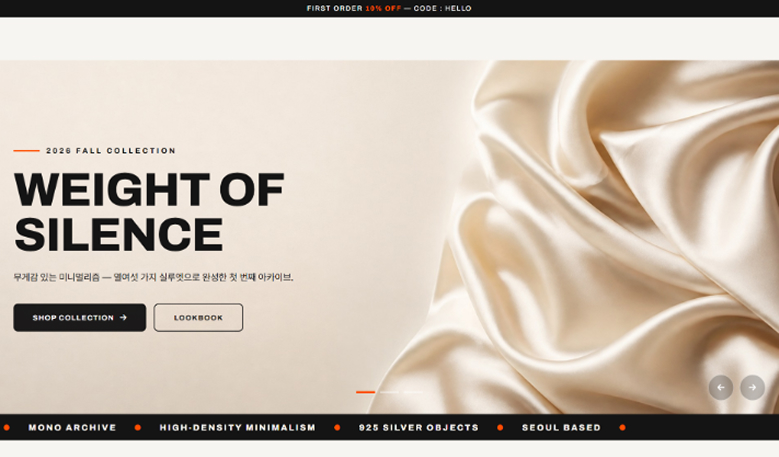
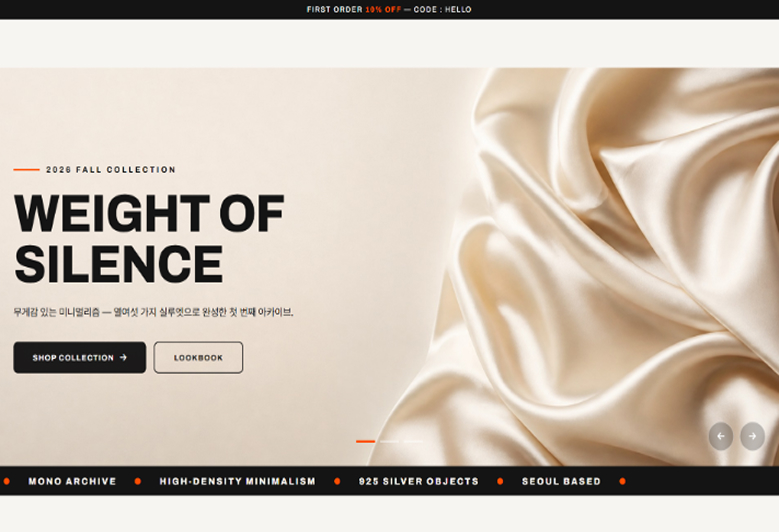
1110 ALL 정리

diff --git a/index.html b/index.html
@@ -216,25 +216,6 @@
         <!-- ===== ALL PROJECT / UIUX ===== -->
         <div class="ap-panel is-active" data-panel="uiux" data-category="uiux" role="tabpanel">
           <div class="ap-grid">
-            <a class="ap-card ap-card--browser" href="https://ujin2019-oss.github.io/cafe1/01_mono-archive/index.html" target="_blank" rel="noopener"><!-- 1 -->
-              <span class="ap-card__media">
-                <span class="ap-browser">
-                  <span class="ap-browser__bar">
-                    <span class="ap-browser__dots" aria-hidden="true"><i></i><i></i><i></i></span>
-                    <span class="ap-browser__url" aria-hidden="true"></span>
-                  </span>
-                  <span class="ap-browser__screen"><img src="./images/all_pc01.jpg" alt="모노 아카이브 카페 데스크톱 화면" /></span>
-                </span>
-                <span class="ap-mobile">
-                  <span class="ap-mobile__bar" aria-hidden="true"><span class="ap-mobile__url"></span></span>
-                  <span class="ap-mobile__screen"><img src="./images/all_mo01.jpg" alt="모노 아카이브 카페 모바일 화면" /></span>
-                </span>
-              </span>
-              <span class="ap-card__info">
-                <span class="ap-card__title">모노 아카이브 의류 쇼핑몰</span>
-                <span class="ap-card__cat">반응형 웹사이트</span>
-              </span>
-            </a>
             <a class="ap-card ap-card--browser" href="https://ujin2019-oss.github.io/everstay/" target="_blank" rel="noopener"><!-- 2 -->
               <span class="ap-card__media">
                 <span class="ap-browser">
@@ -271,6 +252,63 @@
               <span class="ap-card__info">
                 <span class="ap-card__title">아쿠리아움</span>
                 <span class="ap-card__cat">웹사이트</span>
+              </span>
+            </a>
+            <a class="ap-card ap-card--browser" href="https://ujin2019-oss.github.io/cafe1/01_mono-archive/index.html" target="_blank" rel="noopener"><!-- 1 -->
+              <span class="ap-card__media">
+                <span class="ap-browser">
+                  <span class="ap-browser__bar">
+                    <span class="ap-browser__dots" aria-hidden="true"><i></i><i></i><i></i></span>
+                    <span class="ap-browser__url" aria-hidden="true"></span>
+                  </span>
+                  <span class="ap-browser__screen"><img src="./images/all_pc01.jpg" alt="모노 아카이브 카페 데스크톱 화면" /></span>
+                </span>
+                <span class="ap-mobile">
+                  <span class="ap-mobile__bar" aria-hidden="true"><span class="ap-mobile__url"></span></span>
+                  <span class="ap-mobile__screen"><img src="./images/all_mo01.jpg" alt="모노 아카이브 카페 모바일 화면" /></span>
+                </span>
+              </span>
+              <span class="ap-card__info">
+                <span class="ap-card__title">모노 아카이브 의류 쇼핑몰</span>
+                <span class="ap-card__cat">반응형 웹사이트</span>
+              </span>
+            </a>
+            <a class="ap-card ap-card--browser" href="https://ujin2019-oss.github.io/serin/" target="_blank" rel="noopener"><!-- 12 -->
+              <span class="ap-card__media">
+                <span class="ap-browser">
+                  <span class="ap-browser__bar">
+                    <span class="ap-browser__dots" aria-hidden="true"><i></i><i></i><i></i></span>
+                    <span class="ap-browser__url" aria-hidden="true"></span>
+                  </span>
+                  <span class="ap-browser__screen"><img src="./images/all_pc12.jpg" alt="SÉRIN 이너뷰티 브랜드 데스크톱 화면" /></span>
+                </span>
+                <span class="ap-mobile">
+                  <span class="ap-mobile__bar" aria-hidden="true"><span class="ap-mobile__url"></span></span>
+                  <span class="ap-mobile__screen"><img src="./images/all_mo12.jpg" alt="SÉRIN 이너뷰티 브랜드 모바일 화면" /></span>
+                </span>
+              </span>
+              <span class="ap-card__info">
+                <span class="ap-card__title">세린 이너뷰티 브랜드</span>
+                <span class="ap-card__cat">반응형 웹사이트</span>
+              </span>
+            </a>
+            <a class="ap-card ap-card--browser" href="https://ujin2019-oss.github.io/forme/" target="_blank" rel="noopener"><!-- 13 -->
+              <span class="ap-card__media">
+                <span class="ap-browser">
+                  <span class="ap-browser__bar">
+                    <span class="ap-browser__dots" aria-hidden="true"><i></i><i></i><i></i></span>
+                    <span class="ap-browser__url" aria-hidden="true"></span>
+                  </span>
+                  <span class="ap-browser__screen"><img src="./images/all_pc13.jpg" alt="FORME. 데스크톱 화면" /></span>
+                </span>
+                <span class="ap-mobile">
+                  <span class="ap-mobile__bar" aria-hidden="true"><span class="ap-mobile__url"></span></span>
+                  <span class="ap-mobile__screen"><img src="./images/all_mo13.jpg" alt="FORME. 모바일 화면" /></span>
+                </span>
+              </span>
+              <span class="ap-card__info">
+                <span class="ap-card__title">포르메 스킨케어 브랜드</span>
+                <span class="ap-card__cat">반응형 웹사이트</span>
               </span>
             </a>
             <a class="ap-card ap-card--browser" href="https://ujin2019-oss.github.io/blossomwide_lotte/" target="_blank" rel="noopener"><!-- 4 -->
@@ -364,23 +402,23 @@
                 <span class="ap-card__cat">웹·앱 개발</span>
               </span>
             </a>
-            <a class="ap-card ap-card--browser" href="https://ujin2019-oss.github.io/lizclinic/" target="_blank" rel="noopener"><!-- 9 -->
+            <a class="ap-card ap-card--browser" href="https://ujin2019-oss.github.io/tangtang/" target="_blank" rel="noopener"><!-- 11 -->
               <span class="ap-card__media">
                 <span class="ap-browser">
                   <span class="ap-browser__bar">
                     <span class="ap-browser__dots" aria-hidden="true"><i></i><i></i><i></i></span>
                     <span class="ap-browser__url" aria-hidden="true"></span>
                   </span>
-                  <span class="ap-browser__screen"><img src="./images/all_pc09.jpg" alt="리즈클리닉 데스크톱 화면" /></span>
+                  <span class="ap-browser__screen"><img src="./images/all_pc11.jpg" alt="프로젝트 08 데스크톱 화면" /></span>
                 </span>
                 <span class="ap-mobile">
                   <span class="ap-mobile__bar" aria-hidden="true"><span class="ap-mobile__url"></span></span>
-                  <span class="ap-mobile__screen"><img src="./images/all_mo09.jpg" alt="리즈클리닉 모바일 화면" /></span>
+                  <span class="ap-mobile__screen"><img src="./images/all_mo11.jpg" alt="탕탕특공대 게임소개 모바일 화면" /></span>
                 </span>
               </span>
               <span class="ap-card__info">
-                <span class="ap-card__title">리즈클리닉</span>
-                <span class="ap-card__cat">반응형 웹사이트</span>
+                <span class="ap-card__title">탕탕특공대</span>
+                <span class="ap-card__cat">반응형 웹사이트 리뉴얼</span>
               </span>
             </a>
             <a class="ap-card ap-card--browser" href="https://ujin2019-oss.github.io/lifedrop/" target="_blank" rel="noopener"><!-- 10 -->
@@ -402,23 +440,23 @@
                 <span class="ap-card__cat">반응형 웹사이트</span>
               </span>
             </a>
-            <a class="ap-card ap-card--browser" href="https://ujin2019-oss.github.io/tangtang/" target="_blank" rel="noopener"><!-- 11 -->
+            <a class="ap-card ap-card--browser" href="https://ujin2019-oss.github.io/lizclinic/" target="_blank" rel="noopener"><!-- 9 -->
               <span class="ap-card__media">
                 <span class="ap-browser">
                   <span class="ap-browser__bar">
                     <span class="ap-browser__dots" aria-hidden="true"><i></i><i></i><i></i></span>
                     <span class="ap-browser__url" aria-hidden="true"></span>
                   </span>
-                  <span class="ap-browser__screen"><img src="./images/all_pc11.jpg" alt="프로젝트 08 데스크톱 화면" /></span>
+                  <span class="ap-browser__screen"><img src="./images/all_pc09.jpg" alt="리즈클리닉 데스크톱 화면" /></span>
                 </span>
                 <span class="ap-mobile">
                   <span class="ap-mobile__bar" aria-hidden="true"><span class="ap-mobile__url"></span></span>
-                  <span class="ap-mobile__screen"><img src="./images/all_mo11.jpg" alt="탕탕특공대 게임소개 모바일 화면" /></span>
+                  <span class="ap-mobile__screen"><img src="./images/all_mo09.jpg" alt="리즈클리닉 모바일 화면" /></span>
                 </span>
               </span>
               <span class="ap-card__info">
-                <span class="ap-card__title">탕탕특공대</span>
-                <span class="ap-card__cat">반응형 웹사이트 리뉴얼</span>
+                <span class="ap-card__title">리즈클리닉</span>
+                <span class="ap-card__cat">반응형 웹사이트</span>
               </span>
             </a>
           </div>
@@ -987,73 +1025,6 @@
 
     </section>
   
-    <!-- DETAIL PROJECT / UIUX / MONO ARCHIVE -->
-    <section class="project project--detail project--category-uiux" id="monoarchive" data-category="uiux" data-project="monoarchive" aria-label="디자인 프로젝트 - MONO ARCHIVE">
-      <div class="project__inner">
-        <div
-          class="project__visual"
-          style="background-image: url('./images/monoarchive.png')"
-          role="img"
-          aria-label="모노 아카이브 의류 쇼핑몰의 데스크톱과 모바일 화면 목업"
-        ></div>
-
-        <div class="project__info" data-reveal>
-          <h2 class="project__title">MONO ARCHIVE</h2>
-
-          <dl class="project__list">
-            <div class="project__row">
-              <dt>Project Type</dt>
-              <dd>의류 쇼핑몰 반응형 웹사이트</dd>
-            </div>
-            <div class="project__row">
-              <dt>Project Purpose</dt>
-              <dd>미니멀한 브랜드 감성을 담아 시즌 컬렉션과 상품을 소개하고, 취향을 탐색할 수 있는 쇼핑몰 디자인</dd>
-            </div>
-            <div class="project__row">
-              <dt>Key Features</dt>
-              <dd>팝업 · 룩북 · 상품 카테고리</dd>
-            </div>
-            <div class="project__row">
-              <dt>Font Style</dt>
-              <dd>Pretendard Variable · Archivo</dd>
-            </div>
-            <div class="project__row">
-              <dt>Design Color</dt>
-              <dd>
-                <ul class="swatches" aria-label="디자인 색상">
-                  <li style="background:#111111" aria-label="블랙 #111111" title="#111111"></li>
-                  <li style="background:#F6F3EE" aria-label="아이보리 #F6F3EE" title="#F6F3EE"></li>
-                  <li style="background:#FF5A00" aria-label="오렌지 #FF5A00" title="#FF5A00"></li>
-                </ul>
-              </dd>
-            </div>
-            <div class="project__row">
-              <dt>Tools Used</dt>
-              <dd>
-                <ul class="tools tools--sm">
-                  <li class="tool"><img src="./images/ico_fig.png" alt="Figma" /></li>
-                  <li class="tool"><img src="./images/ico_vs.png" alt="VS Code" /></li>
-                  <li class="tool"><img src="./images/ico_clau.png" alt="Claude Code" /></li>
-                </ul>
-              </dd>
-            </div>
-            <div class="project__row">
-              <dt>Generative AI</dt>
-              <dd>Chat GPT 이미지 생성</dd>
-            </div>
-            <div class="project__row">
-              <dt>Duration</dt>
-              <dd>3일(집중작업)</dd>
-            </div>
-          </dl>
-
-          <div class="project__foot">
-            <a class="btn-outline" href="https://ujin2019-oss.github.io/cafe1/01_mono-archive/index.html" target="_blank" rel="noopener"><span class="btn-swap"><span class="btn-swap-en">Live Site</span><span class="btn-swap-ko">사이트 가기</span></span> <span aria-hidden="true">→</span></a>
-          </div>
-        </div>
-      </div>
-    </section>
-
     <!-- DETAIL PROJECT / UIUX / EVER STAY -->
     <section class="project project--detail project--category-uiux" id="everstay" data-category="uiux" data-project="everstay" aria-label="디자인 프로젝트 - EVER STAY">
       <div class="project__inner">
@@ -1187,6 +1158,73 @@
 
           <div class="project__foot">
             <a class="btn-outline" href="https://ujin2019-oss.github.io/jejuaqua/" target="_blank" rel="noopener"><span class="btn-swap"><span class="btn-swap-en">Live Site</span><span class="btn-swap-ko">사이트 가기</span></span> <span aria-hidden="true">→</span></a>
+          </div>
+        </div>
+      </div>
+    </section>
+
+    <!-- DETAIL PROJECT / UIUX / MONO ARCHIVE -->
+    <section class="project project--detail project--category-uiux" id="monoarchive" data-category="uiux" data-project="monoarchive" aria-label="디자인 프로젝트 - MONO ARCHIVE">
+      <div class="project__inner">
+        <div
+          class="project__visual"
+          style="background-image: url('./images/monoarchive.png')"
+          role="img"
+          aria-label="모노 아카이브 의류 쇼핑몰의 데스크톱과 모바일 화면 목업"
+        ></div>
+
+        <div class="project__info" data-reveal>
+          <h2 class="project__title">MONO ARCHIVE</h2>
+
+          <dl class="project__list">
+            <div class="project__row">
+              <dt>Project Type</dt>
+              <dd>의류 쇼핑몰 반응형 웹사이트</dd>
+            </div>
+            <div class="project__row">
+              <dt>Project Purpose</dt>
+              <dd>미니멀한 브랜드 감성을 담아 시즌 컬렉션과 상품을 소개하고, 취향을 탐색할 수 있는 쇼핑몰 디자인</dd>
+            </div>
+            <div class="project__row">
+              <dt>Key Features</dt>
+              <dd>팝업 · 룩북 · 상품 카테고리</dd>
+            </div>
+            <div class="project__row">
+              <dt>Font Style</dt>
+              <dd>Pretendard Variable · Archivo</dd>
+            </div>
+            <div class="project__row">
+              <dt>Design Color</dt>
+              <dd>
+                <ul class="swatches" aria-label="디자인 색상">
+                  <li style="background:#111111" aria-label="블랙 #111111" title="#111111"></li>
+                  <li style="background:#F6F3EE" aria-label="아이보리 #F6F3EE" title="#F6F3EE"></li>
+                  <li style="background:#FF5A00" aria-label="오렌지 #FF5A00" title="#FF5A00"></li>
+                </ul>
+              </dd>
+            </div>
+            <div class="project__row">
+              <dt>Tools Used</dt>
+              <dd>
+                <ul class="tools tools--sm">
+                  <li class="tool"><img src="./images/ico_fig.png" alt="Figma" /></li>
+                  <li class="tool"><img src="./images/ico_vs.png" alt="VS Code" /></li>
+                  <li class="tool"><img src="./images/ico_clau.png" alt="Claude Code" /></li>
+                </ul>
+              </dd>
+            </div>
+            <div class="project__row">
+              <dt>Generative AI</dt>
+              <dd>Chat GPT 이미지 생성</dd>
+            </div>
+            <div class="project__row">
+              <dt>Duration</dt>
+              <dd>3일(집중작업)</dd>
+            </div>
+          </dl>
+
+          <div class="project__foot">
+            <a class="btn-outline" href="https://ujin2019-oss.github.io/cafe1/01_mono-archive/index.html" target="_blank" rel="noopener"><span class="btn-swap"><span class="btn-swap-en">Live Site</span><span class="btn-swap-ko">사이트 가기</span></span> <span aria-hidden="true">→</span></a>
           </div>
         </div>
       </div>
@@ -1334,7 +1372,7 @@
          - 배경 이미지: 아래 .project__visual 의 style url(...) 수정
          - 텍스트·색상·툴: 아래 HTML에서 바로 수정
          ===================================================== -->
-    <section class="project project--detail project--category-uiux" id="lizclinic" data-category="uiux" data-project="lizclinic" aria-label="디자인 프로젝트 - LIZ CLINIC">
+    <section class="project project--detail project--category-uiux" id="lizclinic" data-category="uiux" data-project="lizclinic" aria-label="디자인 프로젝트 - LIZ CLINIC" hidden style="display: none !important;">
       <div class="project__inner">
         <!-- 왼쪽: 프로젝트 비주얼 (배경 이미지 교체: 아래 url(...) 부분 수정) -->
         <div
